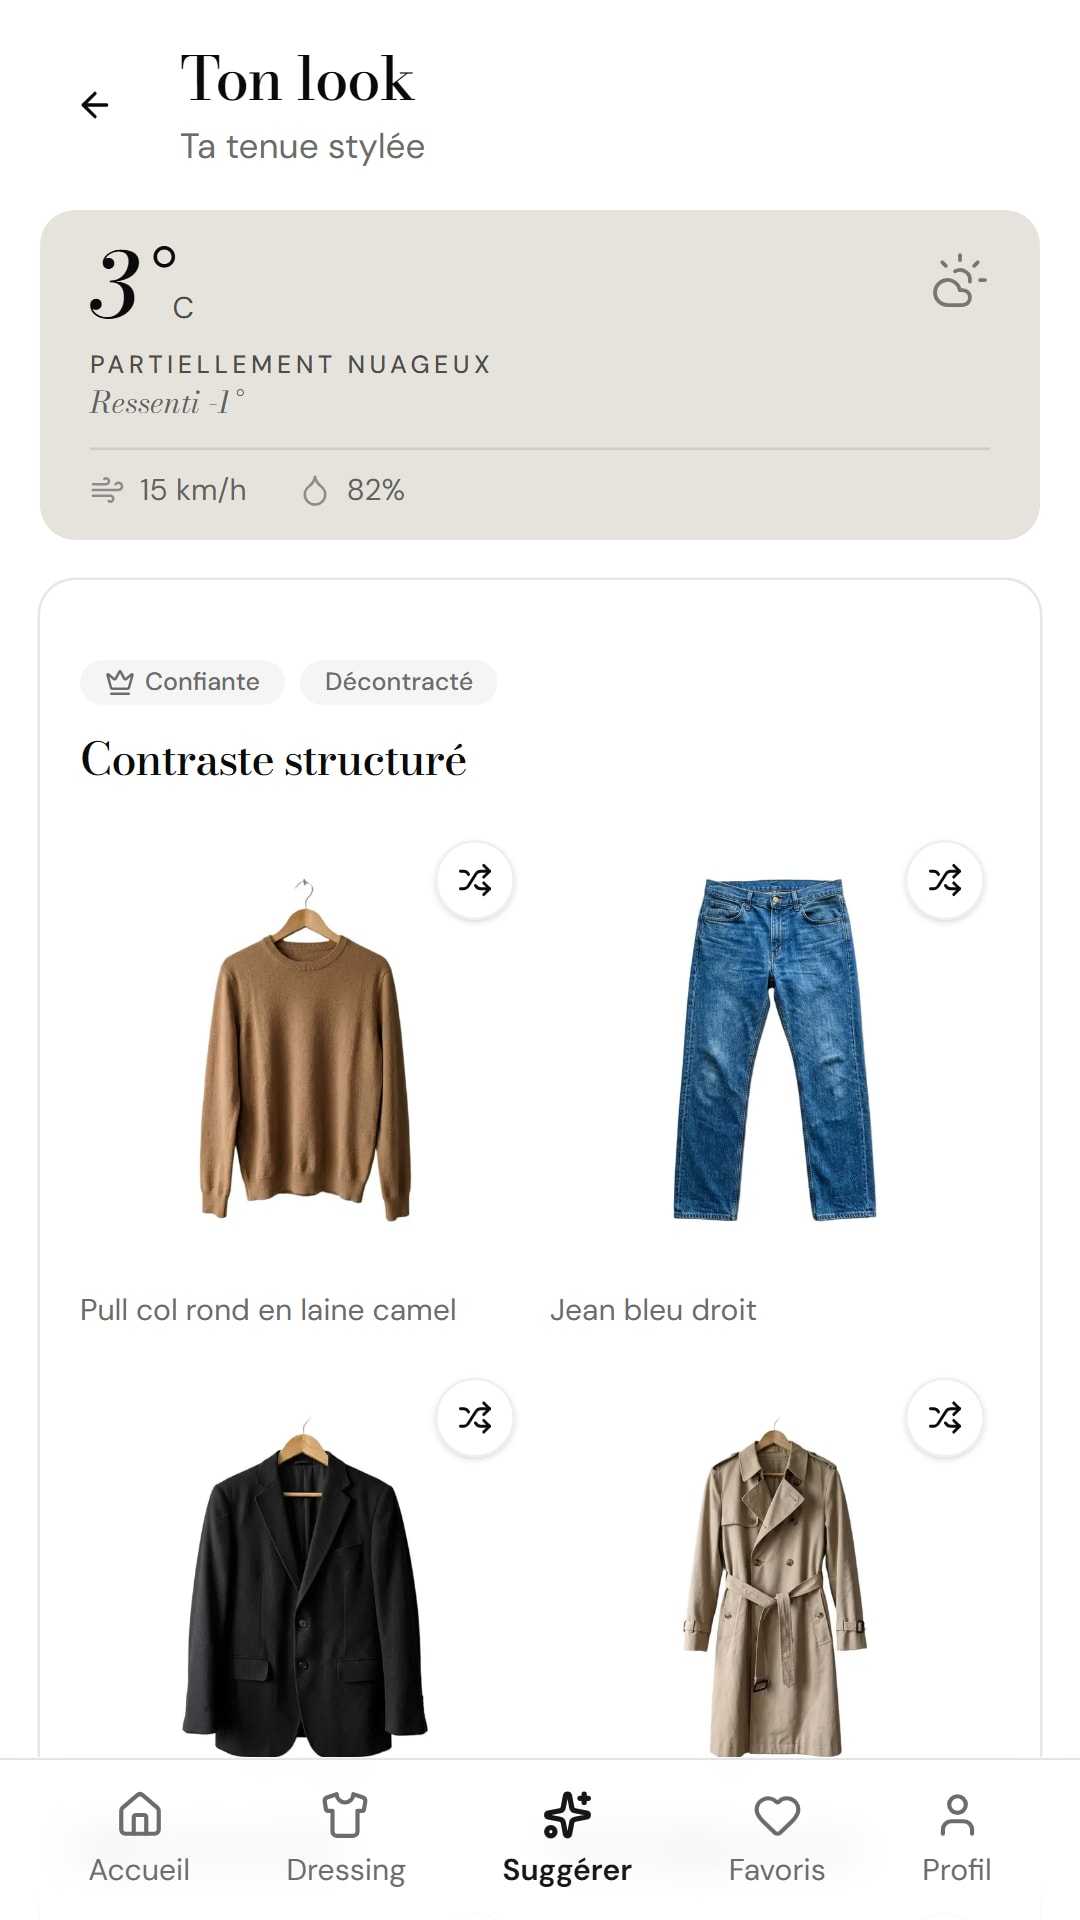
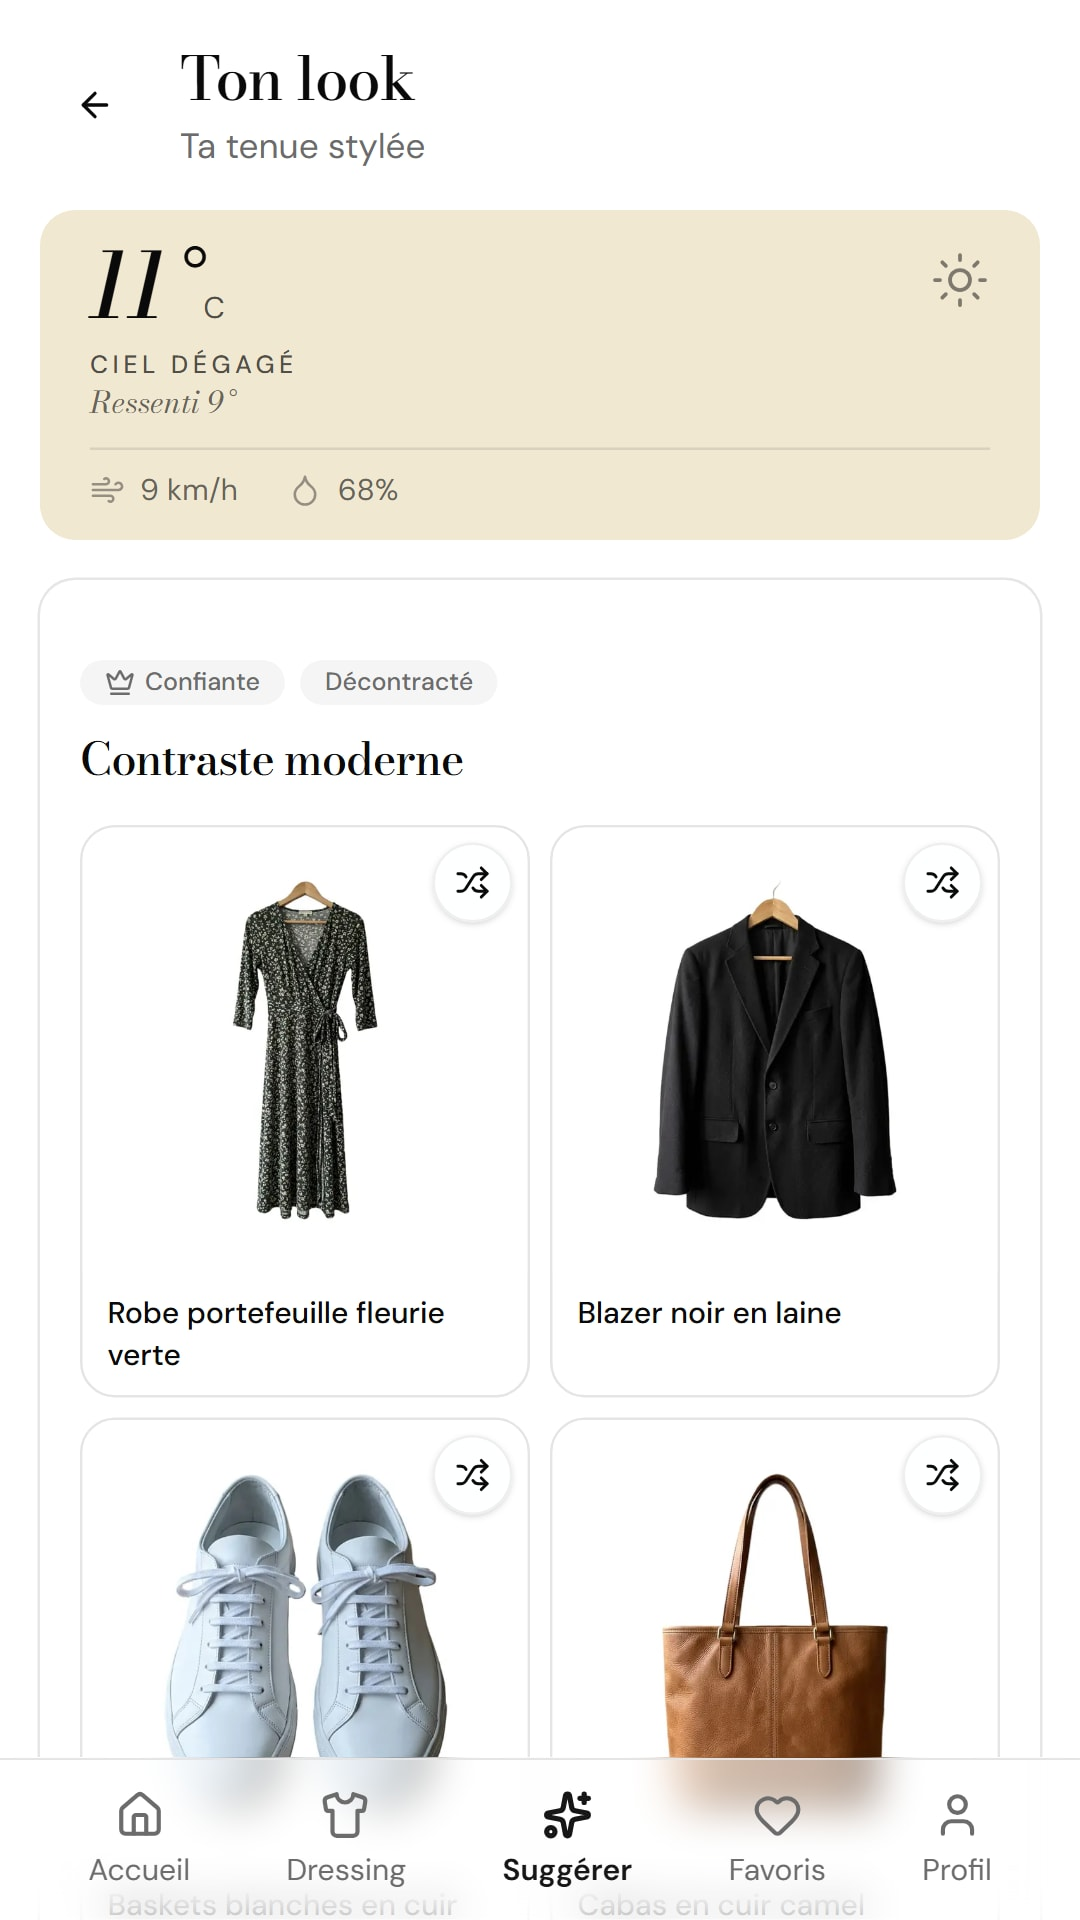
Weather: re-ask Open-Meteo when the cached reading is old; new store screenshots
getWeather fetched with next.revalidate 300. Past those 5 minutes Next's
data cache still answers with its last copy, however old, and refreshes
it in the background. On production at 1 PM on 2026-11-21 /api/weather
answered Montreal with the 9 AM reading (7C, partly cloudy) while
Open-Meteo said 11C and clear; 6 s later it answered 11C. Style Me styles
with whatever getWeather returns.

Open-Meteo's answer carries the reading's local time and the UTC offset:
a reading older than 30 minutes (MAX_READING_AGE_MS; the provider moves
every 15) is asked for again with cache no-store. Unit tests cover the
age across time zones, a 4-hour-old copy re-asked and a fresh one kept.
On a local production build whose cache still held Nov 19's reading, the
first answer matched Open-Meteo live (11C, humidity 68) in 0.5 s.

Store screenshots: the 4 screens with outfit pieces (outfit, home,
try-on, favorites) retaken in English and French with the demo account,
for the framed pieces and the Favorites chip order. Wardrobe and trip
stay. Root cause in known-root-causes.md, the gotcha in CLAUDE.md.

diff --git a/src/lib/weather.ts b/src/lib/weather.ts
@@ -27,6 +27,32 @@ const WEATHER_CODES: Record<number, { condition: string; icon: string }> = {
   99: { condition: "Thunderstorm with heavy hail", icon: "⛈" },
 };
 
+/**
+ * Open-Meteo moves its `current` reading every 15 minutes, so a fresh answer
+ * is at most about 15 minutes old. An older one is a leftover of Next's data
+ * cache: it hands back its last copy first, however old, and only refreshes
+ * it in the background. On 2026-11-21 production answered Montreal at 1 PM
+ * with the 9 AM reading (7°C, partly cloudy, instead of 11°C and clear), and
+ * Style Me styles with whatever this returns (known-root-causes.md).
+ */
+export const MAX_READING_AGE_MS = 30 * 60_000;
+
+/**
+ * How old an Open-Meteo answer's `current` reading is, in milliseconds, or
+ * null when the answer doesn't say. With `timezone=auto`, `current.time` is
+ * the place's local wall time ("2026-11-21T13:00") and `utc_offset_seconds`
+ * turns it back into an instant.
+ */
+export function readingAgeMs(answer: unknown, now: number = Date.now()): number | null {
+  const a = answer as { current?: { time?: unknown }; utc_offset_seconds?: unknown } | null | undefined;
+  const time = a?.current?.time;
+  const offset = a?.utc_offset_seconds;
+  if (typeof time !== "string" || typeof offset !== "number") return null;
+  const wallTimeAsUtc = Date.parse(`${time}Z`);
+  if (!Number.isFinite(wallTimeAsUtc)) return null;
+  return now - (wallTimeAsUtc - offset * 1000);
+}
+
 export async function getWeather(lat: number, lng: number): Promise<WeatherData> {
   // Round to 2 decimals (~1.1 km precision) so nearby users share the cache key
   const roundedLat = Math.round(lat * 100) / 100;
@@ -52,22 +78,16 @@ export async function getWeather(lat: number, lng: number): Promise<WeatherData>
 }
 
 async function fetchWeather(url: string, timeoutMs: number): Promise<WeatherData> {
-  // Revalidate every 5 min — Open-Meteo's `current` updates hourly,
-  // so shorter is technically wasted, BUT Next's edge cache can lag
-  // and keeping it tight catches the hourly rollover sooner. Free
-  // tier handles this load easily.
-  // Timeout per attempt (5 s, then 4 s): a stalled upstream used to hold
-  // the caller (the weather route, or suggest mid-request) until the
-  // platform timeout.
-  const response = await fetch(url, {
-    next: { revalidate: 300 },
-    signal: AbortSignal.timeout(timeoutMs),
-  });
-  if (!response.ok) {
-    throw new Error(`Failed to fetch weather data (HTTP ${response.status})`);
+  // Kept 5 min in Next's data cache, so a burst of requests for one place
+  // asks Open-Meteo once. That cache answers with its last copy even when
+  // it is hours old, so a reading past MAX_READING_AGE_MS is asked for
+  // again, uncached (the cache still refreshes itself in the background).
+  let data = await fetchOpenMeteo(url, { next: { revalidate: 300 } }, timeoutMs);
+  const age = readingAgeMs(data);
+  if (age !== null && age > MAX_READING_AGE_MS) {
+    data = await fetchOpenMeteo(url, { cache: "no-store" }, timeoutMs);
   }
 
-  const data = await response.json();
   const current = data?.current;
   const daily = data?.daily;
   if (!current || typeof current.temperature_2m !== "number") {
@@ -88,6 +108,18 @@ async function fetchWeather(url: string, timeoutMs: number): Promise<WeatherData
     uv_index: daily?.uv_index_max?.[0] ?? 0,
     location: "",
   };
+}
+
+// Timeout per attempt (5 s, then 4 s): a stalled upstream used to hold the
+// caller (the weather route, or suggest mid-request) until the platform
+// timeout.
+// The JSON is checked field by field by the caller.
+async function fetchOpenMeteo(url: string, init: RequestInit, timeoutMs: number) {
+  const response = await fetch(url, { ...init, signal: AbortSignal.timeout(timeoutMs) });
+  if (!response.ok) {
+    throw new Error(`Failed to fetch weather data (HTTP ${response.status})`);
+  }
+  return response.json();
 }
 
 export function getSeasonFromMonth(month: number): "spring" | "summer" | "fall" | "winter" {

diff --git a/src/lib/weather.test.ts b/src/lib/weather.test.ts
@@ -1,5 +1,5 @@
 import { afterEach, describe, expect, it, vi } from "vitest";
-import { getWeather, getSeasonFromMonth } from "./weather";
+import { getWeather, getSeasonFromMonth, MAX_READING_AGE_MS, readingAgeMs } from "./weather";
 
 const OPEN_METEO_ANSWER = {
   current: { temperature_2m: 8.6, apparent_temperature: 5.5, weather_code: 61, relative_humidity_2m: 88, wind_speed_10m: 14.4 },
@@ -41,6 +41,61 @@ describe("getWeather", () => {
     );
     await expect(getWeather(45.5, -73.57)).rejects.toThrow(/current conditions/);
     expect(warn).toHaveBeenCalledWith(expect.stringContaining("[weather] Open-Meteo failed twice"));
+  });
+});
+
+/** An Open-Meteo answer whose reading is `minutesOld` old, in UTC (offset 0). */
+function answerFrom(minutesOld: number, temperature: number) {
+  const time = new Date(Date.now() - minutesOld * 60_000).toISOString().slice(0, 16);
+  return {
+    utc_offset_seconds: 0,
+    current: { ...OPEN_METEO_ANSWER.current, time, temperature_2m: temperature },
+    daily: OPEN_METEO_ANSWER.daily,
+  };
+}
+
+describe("readingAgeMs", () => {
+  it("reads the place's local time back into an instant (Montreal, UTC-5)", () => {
+    const answer = { utc_offset_seconds: -18_000, current: { time: "2026-11-21T13:00" } };
+    expect(readingAgeMs(answer, Date.UTC(2026, 10, 21, 18, 10))).toBe(10 * 60_000);
+  });
+
+  it("works east of Greenwich too (Paris, UTC+1)", () => {
+    const answer = { utc_offset_seconds: 3_600, current: { time: "2026-11-21T09:00" } };
+    expect(readingAgeMs(answer, Date.UTC(2026, 10, 21, 12, 0))).toBe(4 * 3_600_000);
+  });
+
+  it("says nothing when the answer carries no time or offset", () => {
+    expect(readingAgeMs(OPEN_METEO_ANSWER)).toBeNull();
+    expect(readingAgeMs({ utc_offset_seconds: 0, current: { time: "not a time" } })).toBeNull();
+    expect(readingAgeMs(null)).toBeNull();
+  });
+});
+
+describe("getWeather and Next's data cache (production served 9 AM's weather at 1 PM, 2026-11-21)", () => {
+  it("asks again, uncached, when the cached reading is too old", async () => {
+    const fetchMock = vi
+      .fn()
+      .mockResolvedValueOnce(jsonResponse(answerFrom(4 * 60, 7)))
+      .mockResolvedValueOnce(jsonResponse(answerFrom(5, 11)));
+    vi.stubGlobal("fetch", fetchMock);
+    const w = await getWeather(45.5, -73.6);
+    expect(w.temp).toBe(11);
+    expect(fetchMock).toHaveBeenCalledTimes(2);
+    expect(fetchMock.mock.calls[0][1]).toMatchObject({ next: { revalidate: 300 } });
+    expect(fetchMock.mock.calls[1][1]).toMatchObject({ cache: "no-store" });
+  });
+
+  it("keeps a recent cached reading without asking again", async () => {
+    const fetchMock = vi.fn(async () => jsonResponse(answerFrom(10, 11)));
+    vi.stubGlobal("fetch", fetchMock);
+    const w = await getWeather(45.5, -73.6);
+    expect(w.temp).toBe(11);
+    expect(fetchMock).toHaveBeenCalledTimes(1);
+  });
+
+  it("draws the line at 30 minutes, past Open-Meteo's 15-minute step", () => {
+    expect(MAX_READING_AGE_MS).toBe(30 * 60_000);
   });
 });
 

diff --git a/CLAUDE.md b/CLAUDE.md
@@ -165,6 +165,7 @@ Line endings: `core.autocrlf=true` (this machine's system git config) checks fil
 - **An outfit shows one sentence: the Stylist tip** (the owner's call, 2026-11-09). The model still writes `reasoning` (saved as `ai_reasoning`, checked by the text guards, sent in a report's snapshot) and the server still returns `relaxed`, but no screen shows the description or an "I stretched a rule" line. Don't add text under an outfit without asking him. The tip's voice (one styling action, said to the person, about their moment: what they typed in step 2, otherwise the occasion, the mood or the weather; French adjectives agree with the wearer's gender) is ONE text, `stylingTipVoice` in `src/lib/suggest-prompt.ts`, used by suggest and by refine (the tip rewritten when a swapped outfit is saved). Change it only with before/after samples run both with step 2 filled in and empty: with only filled-in examples the model invented a moment for the empty case ("Sunday brunch" on a Tuesday, `known-root-causes.md`).
 - **A Report control under every AI result** (2026-11-09, Google Play's AI content policy: offensive AI content must be reportable without leaving the app): `ReportAiButton` (`src/components/report-ai-button.tsx`) sits under the outfit, the try-on and the packing results. A new screen that shows AI output needs one, with a small `content` snapshot of what the person sees (names, ids, sentences: never photos or whole wardrobe objects). `POST /api/report` validates through `parseReport` (`src/lib/ai-report.ts`: its lists must match the checks on the `ai_reports` table), inserts for the caller (insert-only RLS, 20 a day), emails hello@linette.app only when the reason is "offensive", and `/admin` lists the last 50. Tests never send "offensive".
 - **Location is coarse**: every position the browser gives goes through `coarseCoords` (`src/lib/coarse-location.ts`, one decimal of a degree, about 11 km) before it is used, cached, sent to `/api/weather` or to the reverse geocoder, and the weather route rounds again. That is what lets the Play Data safety form say "approximate location" (3 km² or more).
+- **Next's fetch cache is not a freshness limit**: past `next: { revalidate: N }` it still answers with its last copy, however old, and refreshes in the background. With few visitors per place, production showed (and Style Me styled with) the 9 AM weather at 1 PM until 2026-11-21. Anything that must be current checks its own age: `getWeather` re-asks Open-Meteo uncached when the reading is older than `MAX_READING_AGE_MS` (30 min, `src/lib/weather.ts`).
 - **Prompt strings live with their route**, not in a shared prompts dir, except `analyze-prompt.ts` (reused between the legacy multipart and the URL-fetch paths).
 - **Daily caps are tier-bands**, not free-floating numbers. The framework is Conservative / Balanced / Generous — current beta runs Balanced. Pricing tier changes follow the same bands.
 - **Touch targets**: on a touch screen every control is at least 44 px. The `tap` (icon buttons) and `tap-h` (text buttons, chips) utilities in `globals.css` apply only under `pointer: coarse`, so a computer keeps the compact look; the shared Button, Input, Select trigger and date trigger carry them, so controls built from those are covered. A custom control adds the utility, a padding cancelled by a negative margin (inline links in the lobby CSS), or an invisible `::after` hit area (the Switch).

diff --git a/known-root-causes.md b/known-root-causes.md
@@ -6,6 +6,12 @@ Public repo: technical facts only, no keys, accounts or client details.
 
 ## Confirmed
 
+### The weather was hours old for the first person after a quiet spell (found 2026-11-19, fixed 2026-11-21)
+- **Symptom:** retaking the French store screenshots on a local production build, the weather card read 3°C, humidity 96%, while the outfit under it said 10°C, and the English pass three minutes later read 10°C everywhere. Montreal's hourly readings that day never went below 4.3°C: the 3°C card was days old. On production, 2026-11-21 at 1 PM: `/api/weather` for Montreal's cell answered 7°C, partly cloudy, humidity 83%, wind 17 (the 9 AM reading) while Open-Meteo's live reading was 11°C and clear; the same call 6 s later answered 11°C.
+- **Cause:** `getWeather` (`src/lib/weather.ts`) fetched Open-Meteo with `next: { revalidate: 300 }`. Past those 5 minutes Next's data cache still answers with its last copy, however old, and only refreshes it in the background (`entry.isStale` in `next/dist/server/lib/patch-fetch.js`). With few visitors per place, most first requests landed on an old copy: the weather card showed it, and Style Me styled with it when it asked first (its rain and warmth rules run on that reading). The 5-minute comment assumed the cache expired.
+- **Fix:** Open-Meteo's answer carries its reading's local time and the place's UTC offset; a reading older than 30 minutes (`MAX_READING_AGE_MS`, the provider moves every 15) is asked for again with `cache: "no-store"`, while the data cache still spares Open-Meteo a burst of requests for one place. Unit tests: the age across time zones, a 4-hour-old cached answer re-asked, a 10-minute-old one kept.
+- **Not changed:** the weather route's own CDN header (`s-maxage=600, stale-while-revalidate=1800`) can still serve a copy up to 40 minutes old: bounded, and the CDN drops it after that. Packing's forecast and climate calls never used the data cache.
+
 ### The app ignored its own sign-in return link on an older WebView (2026-11-19, caught by the emulator before any phone)
 - **Symptom:** Android run #17: `am start -d 'app.linette://auth/callback?code=…'` reached the app, and the page stayed on `/launch` instead of going on to `/auth/callback`.
 - **Cause:** `appAuthReturnPath` checked `new URL(link).host === "auth"`. Chromium before version 130 parses no host in a non-special URL: `app.linette://auth/callback` gave host `""` and pathname `//auth/callback`. The Android 15 emulator's WebView is 124. The unit tests run in Node, whose URL parser is standard, so they passed.

diff --git a/docs/play-store-listing.md b/docs/play-store-listing.md
@@ -119,7 +119,10 @@ icon and the two feature graphics do not.
 
 The launcher icon inside the app is separate (`scripts/android-icons.mjs`, `android/app/src/main/res`).
 
-The screenshots (2026-11-16) are real screens of the app with real AI results, taken from a DEMO account
+Retaken 2026-11-21: the 4 screens with outfit pieces (outfit, home, try-on, favorites) in both languages, for the
+framed pieces and the Favorites chip order of 2026-11-16 (the old home screen also said "Overcast" on its card and
+"Partly cloudy" under the outfit, a stale weather copy: `known-root-causes.md`). Wardrobe and trip are the 2026-11-16
+captures. The screenshots (2026-11-16) are real screens of the app with real AI results, taken from a DEMO account
 (`e2e-demo-wardrobe@linette.app`, made through the admin API, no password): 23 generated garment photos, nobody's
 clothes (the owner chose a demo wardrobe over his own on 2026-11-13), uploaded through the app's own bulk upload and
 cut out by it, city fixed to Montreal. Seen with the Android app's user agent at 432 x 768 CSS px x 2.5, every photo
